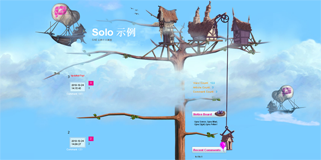
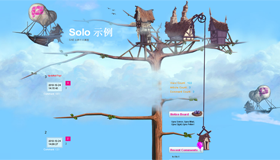
Fixes issue 7

diff --git a/b3log-solo/src/main/webapp/skins/i-nove/default-index.css b/b3log-solo/src/main/webapp/skins/i-nove/default-index.css
@@ -365,6 +365,11 @@ h5 {
     font-weight: bold;
 }
 
+.side-navi .navi-comments .side-comment {
+    font-weight: normal;
+    color: #555555;
+}
+
 .side-navi .navi-comments li {
     padding: 2px 0;
 }
